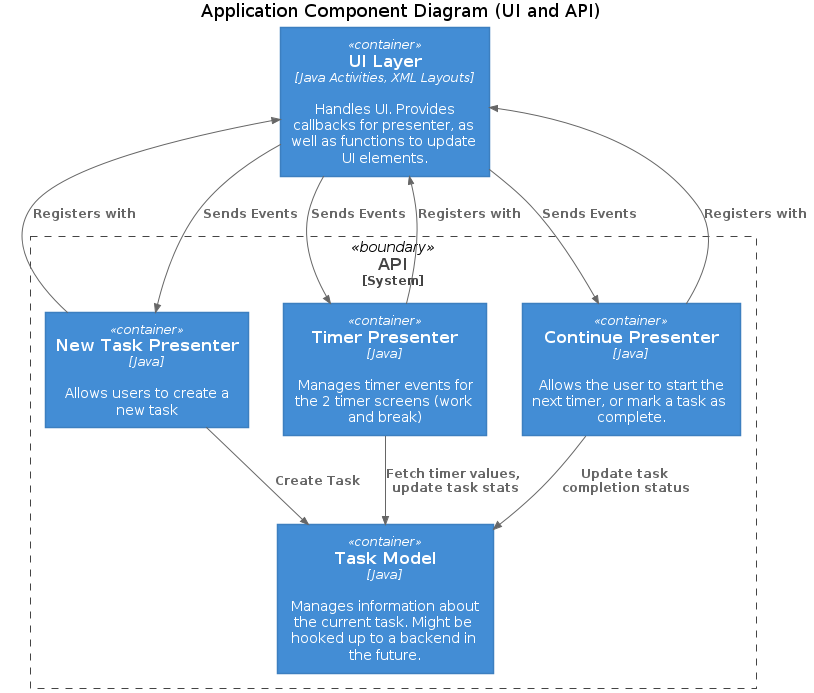
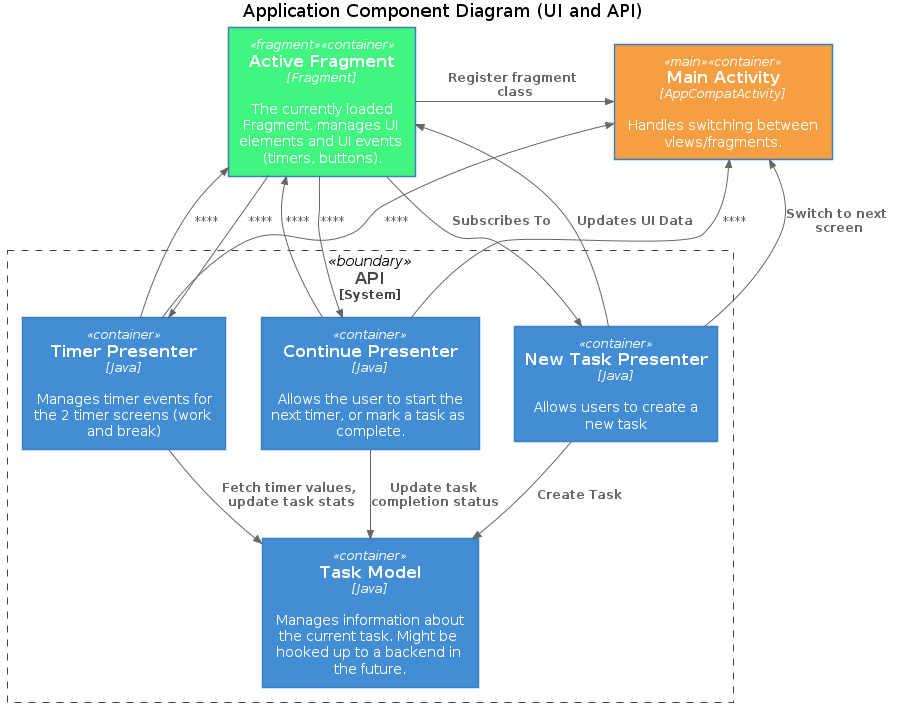
Create fragments for each screen, wired the fragments via buttons, no form validation or working timer yet.

diff --git a/project/app/src/main/java/org/team/app/view/ContinueView.java b/project/app/src/main/java/org/team/app/view/ContinueView.java
@@ -1,0 +1,33 @@
+package org.team.app.view;
+
+import android.os.Bundle;
+import androidx.fragment.app.Fragment;
+import android.widget.Button;
+import android.view.View;
+
+import org.team.app.view.R;
+
+public class ContinueView extends FragmentView {
+    public ContinueView() {
+        super(R.layout.screen_continue);
+    }
+
+    @Override
+    public void onViewCreated(View view, Bundle savedInstanceState) {
+        super.onViewCreated(view, savedInstanceState);
+
+        final Button breakButton = view.findViewById(R.id.button_break);
+        breakButton.setOnClickListener(new View.OnClickListener() {
+                public void onClick(View v) {
+                    parent.replaceView(new TimerView());
+                }
+            });
+
+        final Button doneButton = view.findViewById(R.id.button_done);
+        doneButton.setOnClickListener(new View.OnClickListener() {
+                public void onClick(View v) {
+                    parent.replaceView(new SetupTaskView());
+                }
+            });
+    }
+}

diff --git a/project/app/src/main/java/org/team/app/view/MainActivity.java b/project/app/src/main/java/org/team/app/view/MainActivity.java
@@ -1,0 +1,29 @@
+package org.team.app.view;
+
+import android.os.Bundle;
+import androidx.appcompat.app.AppCompatActivity;
+import androidx.fragment.app.Fragment;
+
+import org.team.app.view.R;
+
+public class MainActivity extends AppCompatActivity implements ActivityListener {
+    public void replaceView(Fragment fragment) {
+        getSupportFragmentManager().beginTransaction()
+            .replace(R.id.fragmentContainerView, fragment, fragment.toString())
+            .addToBackStack(fragment.toString())
+            .commit();
+    }
+
+    @Override
+    protected void onCreate(Bundle savedInstanceState) {
+        super.onCreate(savedInstanceState);
+        setContentView(R.layout.screen_main);
+
+        if(savedInstanceState == null) {
+            getSupportFragmentManager().beginTransaction()
+                .setReorderingAllowed(true)
+                .add(R.id.fragmentContainerView, SetupTaskView.class, null)
+                .commit();
+        }
+    }
+}

diff --git a/project/app/src/main/java/org/team/app/view/FragmentView.java b/project/app/src/main/java/org/team/app/view/FragmentView.java
@@ -1,0 +1,35 @@
+package org.team.app.view;
+
+import java.util.UUID;
+
+import android.app.Activity;
+import androidx.appcompat.app.AppCompatActivity;
+import androidx.fragment.app.Fragment;
+
+import org.team.app.view.R;
+
+public abstract class FragmentView extends Fragment {
+    protected UUID uuid;
+    protected ActivityListener parent;
+
+    public FragmentView(int layoutId) {
+        super(layoutId);
+        uuid = UUID.randomUUID();
+    }
+
+    @Override
+    public void onAttach(Activity activity) {
+        super.onAttach(activity);
+
+        try {
+            parent = (ActivityListener) activity;
+        } catch(ClassCastException e) {
+            throw new ClassCastException(activity.toString() + " must implement ActivityListener");
+        }
+    }
+
+    @Override
+    public String toString() {
+        return this.getClass().getName() + "[" + uuid.toString() +  "}";
+    }
+}

diff --git a/project/app/src/main/java/org/team/app/view/SetupTaskView.java b/project/app/src/main/java/org/team/app/view/SetupTaskView.java
@@ -1,0 +1,26 @@
+package org.team.app.view;
+
+import android.os.Bundle;
+import androidx.fragment.app.Fragment;
+import android.widget.Button;
+import android.view.View;
+
+import org.team.app.view.R;
+
+public class SetupTaskView extends FragmentView {
+    public SetupTaskView() {
+        super(R.layout.screen_setup_task);
+    }
+
+    @Override
+    public void onViewCreated(View view, Bundle savedInstanceState) {
+        super.onViewCreated(view, savedInstanceState);
+
+        final Button button = view.findViewById(R.id.button);
+        button.setOnClickListener(new View.OnClickListener() {
+                public void onClick(View v) {
+                    parent.replaceView(new TimerView());
+                }
+            });
+    }
+}

diff --git a/project/app/src/main/java/org/team/app/view/TimerView.java b/project/app/src/main/java/org/team/app/view/TimerView.java
@@ -1,0 +1,26 @@
+package org.team.app.view;
+
+import android.os.Bundle;
+import androidx.fragment.app.Fragment;
+import android.widget.Button;
+import android.view.View;
+
+import org.team.app.view.R;
+
+public class TimerView extends FragmentView {
+    public TimerView() {
+        super(R.layout.screen_timer);
+    }
+
+    @Override
+    public void onViewCreated(View view, Bundle savedInstanceState) {
+        super.onViewCreated(view, savedInstanceState);
+
+        final Button button = view.findViewById(R.id.button2);
+        button.setOnClickListener(new View.OnClickListener() {
+                public void onClick(View v) {
+                    parent.replaceView(new ContinueView());
+                }
+            });
+    }
+}

diff --git a/project/app/src/main/java/org/team/app/view/ActivityListener.java b/project/app/src/main/java/org/team/app/view/ActivityListener.java
@@ -1,0 +1,7 @@
+package org.team.app.view;
+
+import androidx.fragment.app.Fragment;
+
+public interface ActivityListener {
+    public void replaceView(Fragment fragment);
+}
